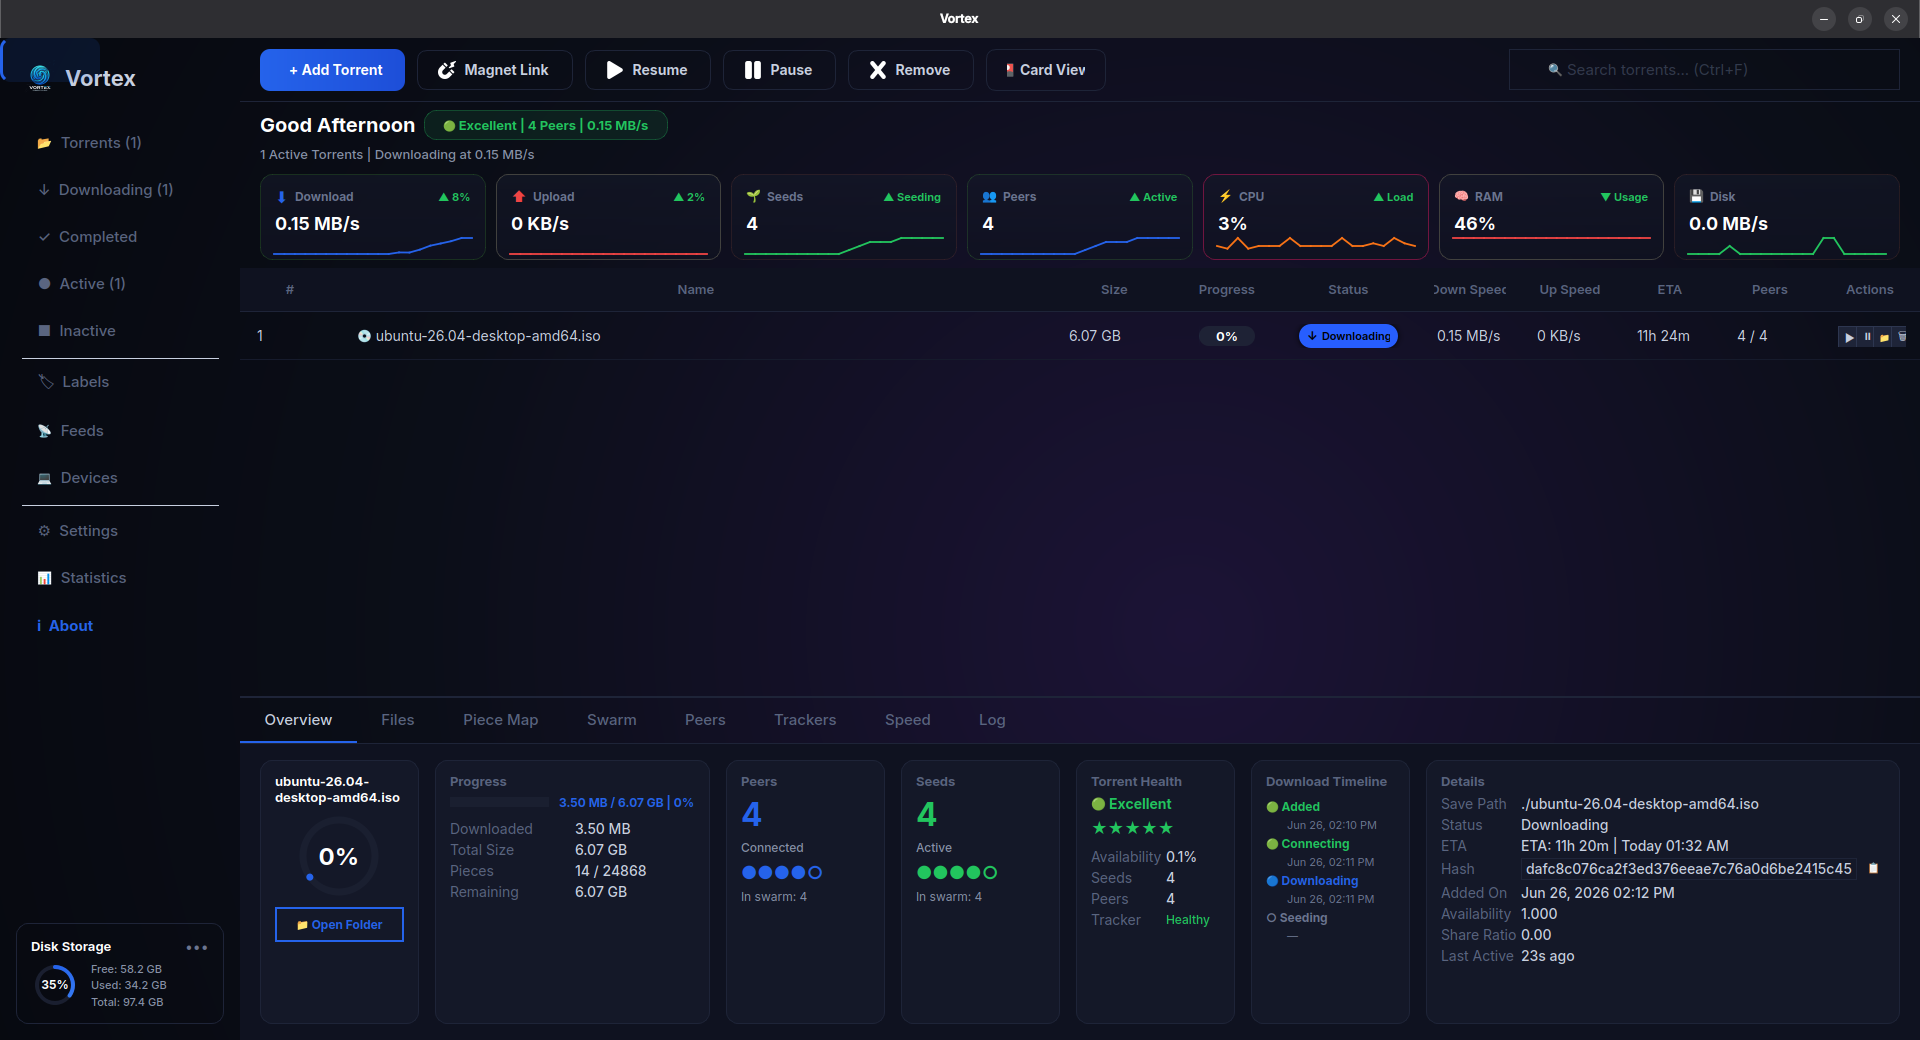
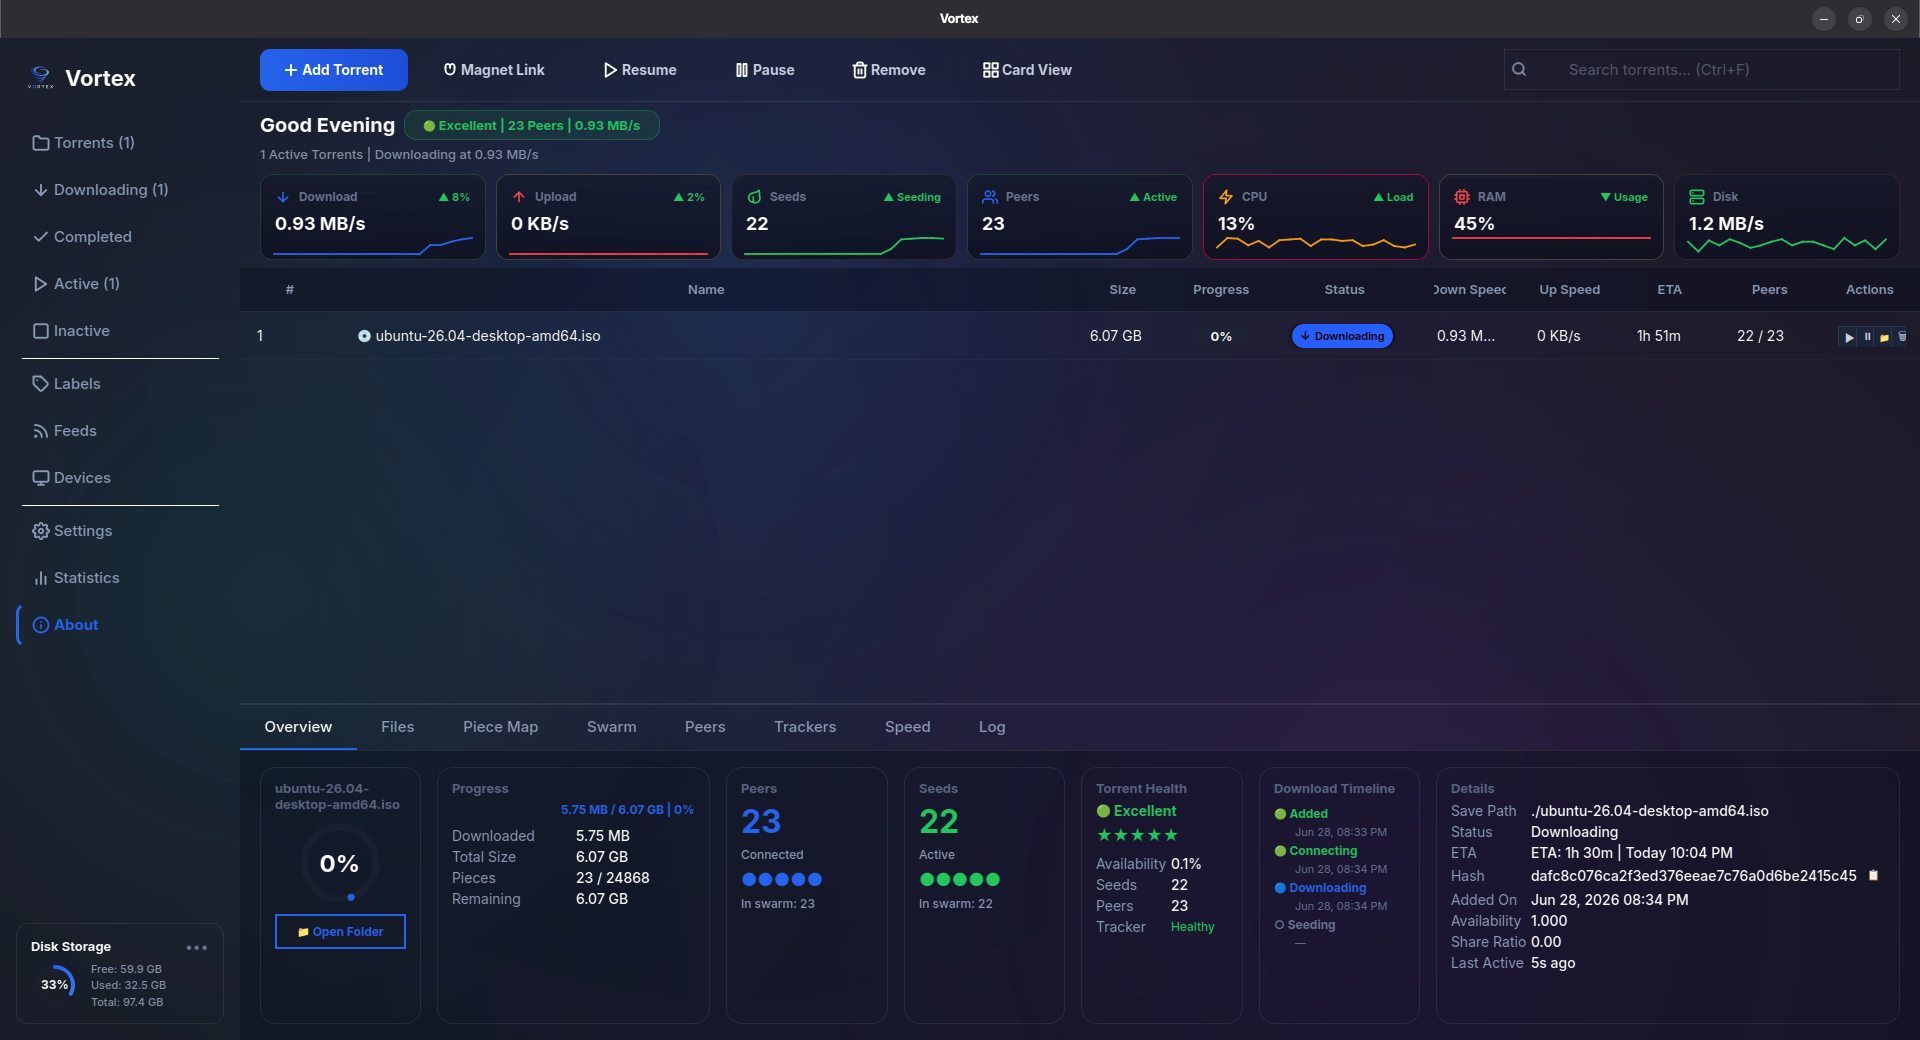
docs: update README with dialog glassmorphism features and update assets/screenshots

diff --git a/README.md b/README.md
@@ -44,8 +44,8 @@ Rather than wrapping existing libtorrent binaries, Vortex implements the entire 
 * **Bandwidth Throttling:** Built-in Token Bucket rate limiting to cap maximum download speed globally.
 
 ### 🎨 Desktop User Experience
-* **Vortex Glass Theme:** Premium Apple-style glassmorphism with dynamic animated multi-blob aurora gradients, translucent cards, and frosted panel layouts.
-* **Custom Theme Presets:** Choose from Vortex Glass, Midnight Blue, Dracula, Nord, Catppuccin, AMOLED, and Light, with support for custom accent overrides.
+* **Vortex Glass Theme:** Premium glassmorphism with dynamic animated multi-blob aurora gradients, translucent cards, and frosted panel layouts applied cohesively across the main dashboard and all dialogs (About, Add Torrent, Remove Torrent, and Download Complete).
+* **Custom Theme Presets:** Choose from Vortex Glass, Midnight Blue, Dracula, Nord, Catppuccin, AMOLED, and Light presets with support for custom accent overrides.
 * **Command Palette (Ctrl+Shift+P):** Instantly trigger core actions (add file/magnet, global play/pause, cleanup, settings navigation) via keyboard.
 * **Advanced Visual Analytics:** High-fidelity custom statistics panels including a dynamic piece-distribution donut chart.
 * **Comprehensive Metrics:** Real-time download speeds, peer health counts, ETA calculation, and progress bars.